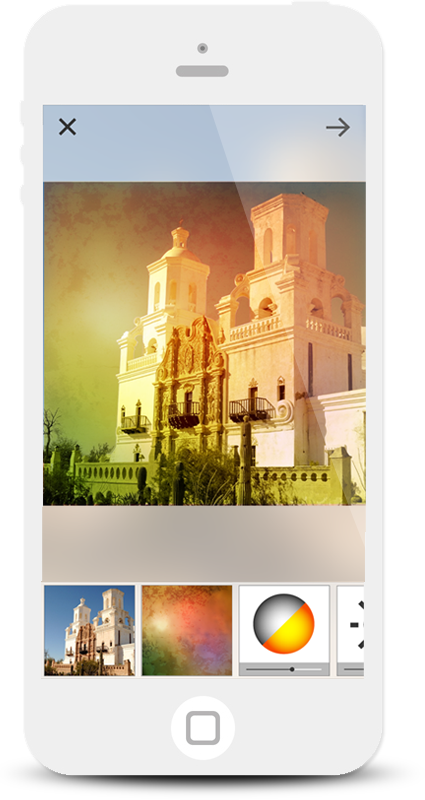
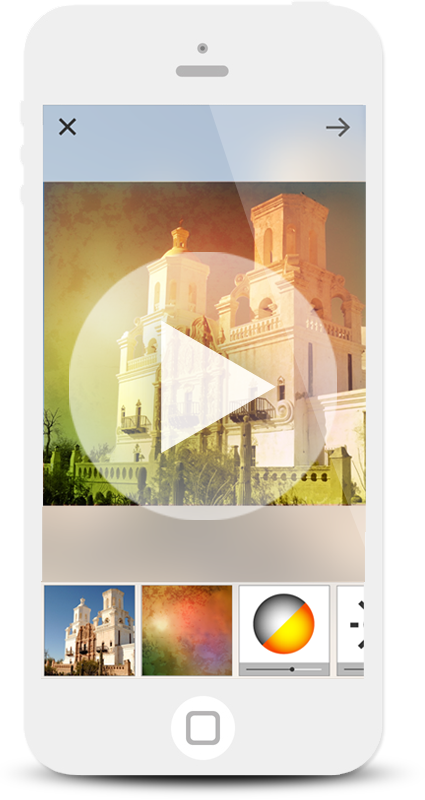
adding play button for video

Changed region(s): [[0.1529, 0.3125, 0.7953, 0.6562]]

diff --git a/css/main.css b/css/main.css
@@ -104,6 +104,9 @@ p {
 .clearfix {
   *zoom: 1;
 }
+.show-small {
+  display: inline-block;
+}
 /* ===== Initializr Styles ==================================================
    Author: Jonathan Verrecchia - verekia.com/initializr/responsive-template
    ========================================================================== */
@@ -155,6 +158,7 @@ nav a:hover {
   font-weight: 100;
   line-height: 1;
   padding-top: 70px;
+  margin-bottom: 0px;
 }
 .main aside {
   color: white;
@@ -172,11 +176,9 @@ nav a:hover {
 /*-------- video modal ----------*/
 #modal {
   display: block;
-  transition: all 700ms;
-  -webkit-transition: all 700ms;
-  /* Safari */
+  /*transition: all 700ms;
+    -webkit-transition: all 700ms; /* Safari */
 
-  position: fixed;
 }
 .modal-hide {
   z-index: -10;
@@ -206,10 +208,6 @@ nav a:hover {
   -moz-box-shadow: 0px 2px 15px 0px rgba(0, 0, 0, 0.8);
   -webkit-box-shadow: 0px 2px 15px 0px rgba(0, 0, 0, 0.8);
   box-shadow: 0px 2px 15px 0px rgba(0, 0, 0, 0.8);
-}
-.video-embed video {
-  width: 100%    !important;
-  height: auto   !important;
 }
 /*--------------*/
 .header-container {
@@ -293,8 +291,12 @@ nav a:hover {
    Media Queries
    ========================================================================== */
 @media only screen and (min-width: 480px) {
+  .show-small {
+    display: none;
+  }
   .main-banner h1 {
     font-size: 4em;
+    margin: .67em 0;
   }
   .main-banner {
     position: relative;

diff --git a/css/main.less b/css/main.less
@@ -128,6 +128,10 @@ p {
 }
 
 
+.show-small {
+    display: inline-block;
+}
+
 
 /* ===== Initializr Styles ==================================================
    Author: Jonathan Verrecchia - verekia.com/initializr/responsive-template
@@ -206,6 +210,7 @@ nav a:hover {
     font-weight: 100;
     line-height: 1;
     padding-top: 70px;
+    margin-bottom: 0px;
 }
 
 
@@ -232,9 +237,8 @@ nav a:hover {
 
 #modal {
     display: block;
-    transition: all 700ms;
+    /*transition: all 700ms;
     -webkit-transition: all 700ms; /* Safari */
-    position: fixed;
 }
 
 .modal-hide {
@@ -268,10 +272,6 @@ nav a:hover {
         -moz-box-shadow:    0px 2px 15px 0px rgba(0,0,0,0.8);
         -webkit-box-shadow: 0px 2px 15px 0px rgba(0,0,0,0.8);
          box-shadow:         0px 2px 15px 0px rgba(0,0,0,0.8);
-         video {
-            width: 100%    !important;
-            height: auto   !important;
-        }
     }
 
 
@@ -388,9 +388,13 @@ nav a:hover {
 
 @media only screen and (min-width: 480px) {
 
+    .show-small {
+        display: none;
+    }
+
     .main-banner h1 {
         font-size: 4em;
-        
+        margin: .67em 0;
     }
 
     .main-banner {
@@ -410,6 +414,9 @@ nav a:hover {
             width: 190px;
         }
     }
+
+
+
 
 
 
@@ -447,6 +454,7 @@ nav a:hover {
 }
 
 @media only screen and (min-width: 768px) {
+
 
     .main-banner h1 {
         font-size: 4.7em;

diff --git a/index.html b/index.html
@@ -37,7 +37,7 @@
         <![endif]-->
 
         <div class="header-container">
-            <a href="#" class="play-btn"><div class="pixology-icn"></div></a>
+            <div class="pixology-icn"></div>
         </div>
 
         <div class="main-container">
@@ -45,8 +45,9 @@
             
             
             <div class="main-banner">
-                <img class="img-device" src="img/device.png">
+                <a href="#" class="play-btn"><img class="img-device" src="img/device.png"></a>
                 <h1>Powerful layer editing</h1>
+                <a href="#" class="play-btn show-small"><h3>See Video</h3></a>
                 <a href="https://itunes.apple.com/us/app/pixology/id615161013?mt=8"><img class="btn-appstore" src="img/btn-appstore-small.png"></a>
             </div>            
                 

diff --git a/js/main.js b/js/main.js
@@ -1,8 +1,4 @@
 $(document).ready(function(){
-	$('.img-device').click(function(){
-		$(this).toggleClass('zoom');
-		$('.footer-container').toggleClass('zoom');
-	});
 	$(".play-btn").click(function(){
 		event.preventDefault();
 		$("#modal").removeClass('modal-hide').addClass('modal-show');
